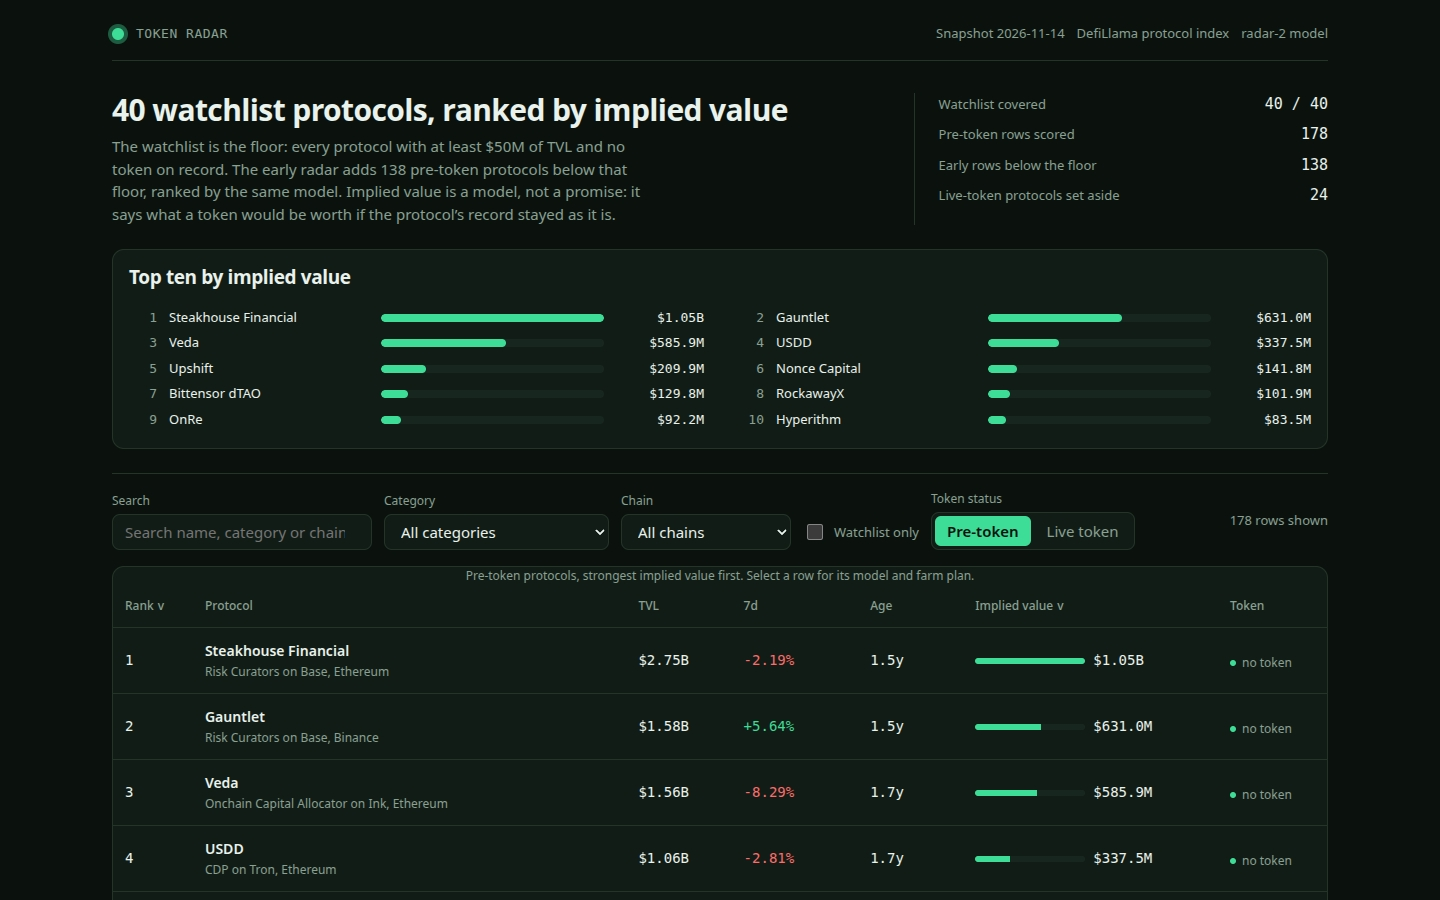
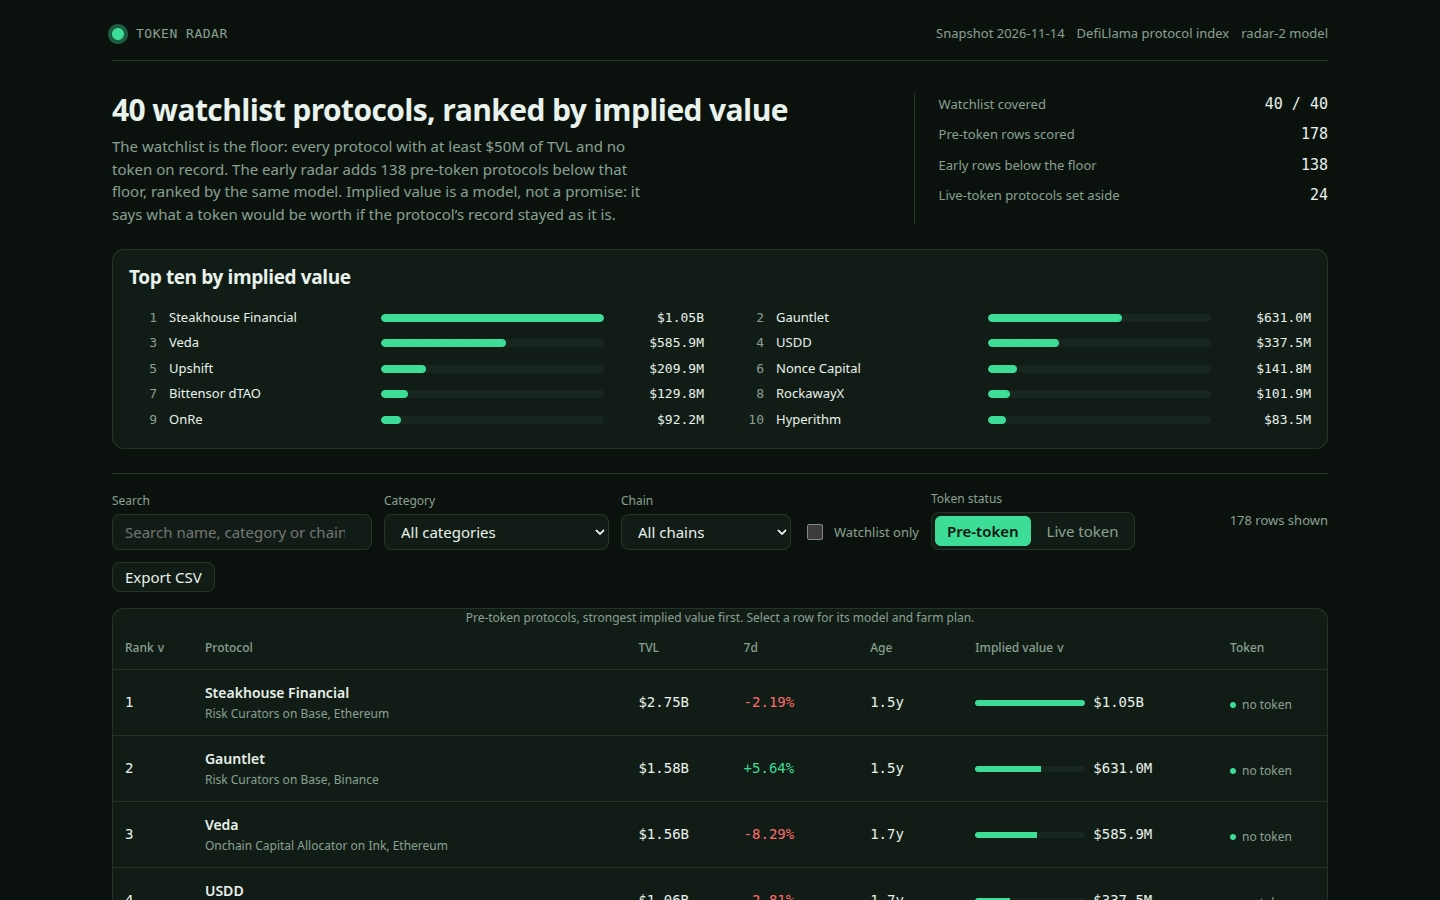
token-radar-01: worked example, board stats and CSV export
main.ts prints the board stats and rank 1's score breakdown (new
scoreBreakdown/boardStats in lib/model.ts); the dashboard gains an
Export CSV button for the filtered view. Board values unchanged.

diff --git a/dashboard/app.js b/dashboard/app.js
@@ -94,6 +94,45 @@
       return hay.indexOf(q) >= 0;
     });
   }
+  // One CSV cell: quoted when it holds a comma, a quote or a line break, with quotes doubled.
+  function csvCell(value) {
+    var s = value === null || value === undefined ? '' : String(value);
+    return /[",\n]/.test(s) ? '"' + s.replace(/"/g, '""') + '"' : s;
+  }
+
+  // The rows on screen, as a CSV download: the filtered pre-token view, or the live-token
+  // view with market caps instead of implied values. A plain Blob, no network, no library.
+  function downloadCsv() {
+    var lines;
+    if (state.tab === 'live') {
+      lines = [['protocol', 'category', 'chains', 'tvl_usd', 'change_7d', 'mcap_usd', 'token']];
+      DATA.live.forEach(function (r) {
+        lines.push([
+          csvCell(r.name), csvCell(r.category), csvCell((r.chains || []).join('; ')),
+          r.tvl_usd, r.change_7d === null ? '' : r.change_7d,
+          r.mcap_usd === null ? '' : r.mcap_usd, 'already trades',
+        ]);
+      });
+    } else {
+      lines = [['rank', 'protocol', 'category', 'chains', 'tvl_usd', 'change_7d', 'age_days', 'implied_value_usd', 'watchlist']];
+      sortedRows(rows()).forEach(function (r) {
+        lines.push([
+          r.rank, csvCell(r.name), csvCell(r.category), csvCell((r.chains || []).join('; ')),
+          r.tvl_usd, r.change_7d === null ? '' : r.change_7d,
+          r.age_days === null ? '' : r.age_days, r.implied_value_usd,
+          r.watchlist ? 'yes' : 'no',
+        ]);
+      });
+    }
+    var blob = new Blob([lines.map(function (l) { return l.join(','); }).join('\n') + '\n'], { type: 'text/csv' });
+    var a = document.createElement('a');
+    a.href = URL.createObjectURL(blob);
+    a.download = state.tab === 'live' ? 'token-radar-live.csv' : 'token-radar-board.csv';
+    document.body.appendChild(a);
+    a.click();
+    setTimeout(function () { URL.revokeObjectURL(a.href); a.remove(); }, 0);
+  }
+
   function sortedRows(list) {
     var key = state.sort;
     return list.slice().sort(function (a, b) {
@@ -176,7 +215,8 @@
       el('div', { class: 'field' }, el('label', { for: 'chain', text: 'Chain' }), chain),
       el('label', { class: 'check', for: 'watch' }, watch, el('span', { text: 'Watchlist only' })),
       el('div', { class: 'field' }, el('span', { class: 'sub', text: 'Token status' }), el('div', { class: 'tabs' }, pre, live)),
-      el('span', { class: 'count', text: state.tab === 'pre-token' ? rows().length + ' rows shown' : DATA.live.length + ' live-token protocols' })
+      el('span', { class: 'count', text: state.tab === 'pre-token' ? rows().length + ' rows shown' : DATA.live.length + ' live-token protocols' }),
+      el('button', { class: 'export', type: 'button', text: 'Export CSV', onclick: downloadCsv })
     );
   }
 

diff --git a/lib/model.ts b/lib/model.ts
@@ -286,6 +286,51 @@ export function impliedValue(
   return { implied, growthPct, growthMult, maturityMult, breadthMult, catMult, age };
 }
 
+/** A row's score as readable lines, for the dossier's worked example and for a reader who
+ *  wants to check a row by hand. Each line names one factor and the number it contributes. */
+export function scoreBreakdown(row: BoardRow): string[] {
+  const m = row.model;
+  const growth =
+    row.change_7d === null
+      ? 'no 7-day change on record, counted as 0%'
+      : `${row.change_7d.toFixed(2)}% over 7 days`;
+  const age =
+    m.age_days === null ? 'unknown, counted as 365 days' : `${m.age_days} day${m.age_days === 1 ? '' : 's'}`;
+  const chains = `${row.chains.length} chain${row.chains.length === 1 ? '' : 's'}`;
+  return [
+    `TVL $${row.tvl_usd.toLocaleString('en-US')} times the category multiple ${m.category_multiple} for ${row.category ?? 'an uncategorised protocol'}.`,
+    `Growth ${growth}, clamped to ${m.growth_pct.toFixed(2)}%, gives a growth multiplier of ${m.growth_multiplier}.`,
+    `Age ${age} gives a maturity multiplier of ${m.maturity_multiplier}.`,
+    `${chains} give a breadth multiplier of ${m.breadth_multiplier}.`,
+    `Implied value $${row.implied_value_usd.toLocaleString('en-US')}: the product, rounded to the dollar, at least $1.`,
+  ];
+}
+
+/** Summary counts of a board, for the console log and the dossier's headline. */
+export function boardStats(board: BoardRow[], snapshot: Snapshot): {
+  rows: number;
+  watchlistCovered: number;
+  watchlistSize: number;
+  earlyRows: number;
+  topValue: number;
+  bottomValue: number;
+  topSlug: string;
+  distinctValues: number;
+} {
+  const watchlist = new Set(snapshot.watchlist);
+  const values = board.map((r) => r.implied_value_usd);
+  return {
+    rows: board.length,
+    watchlistCovered: board.filter((r) => watchlist.has(r.slug)).length,
+    watchlistSize: snapshot.watchlist.length,
+    earlyRows: board.filter((r) => !watchlist.has(r.slug)).length,
+    topValue: values.length > 0 ? Math.max(...values) : 0,
+    bottomValue: values.length > 0 ? Math.min(...values) : 0,
+    topSlug: board.length > 0 ? board[0]!.slug : '',
+    distinctValues: new Set(values).size,
+  };
+}
+
 /** Whether a protocol records no token at all. */
 export function isPreToken(p: SnapshotProtocol): boolean {
   return p.mcap_usd === null && p.gecko_id === null && p.symbol === null;

diff --git a/main.ts b/main.ts
@@ -12,7 +12,7 @@
 import { copyFileSync, existsSync, mkdirSync, readFileSync, readdirSync, statSync, writeFileSync } from 'node:fs';
 import { join } from 'node:path';
 import { fileURLToPath } from 'node:url';
-import { boardIssue, buildRadar, dataScript, parseSnapshot } from './lib/model.ts';
+import { boardIssue, boardStats, buildRadar, dataScript, parseSnapshot, scoreBreakdown } from './lib/model.ts';
 import { buildDossier } from './vendor/makefun-board.ts';
 
 const here = fileURLToPath(new URL('.', import.meta.url));
@@ -47,6 +47,8 @@ if (issue !== null) {
   process.stderr.write(`token radar: the board fails the gate: ${issue}\n`);
   process.exit(1);
 }
+const stats = boardStats(board, snapshot);
+const example = board.length > 0 ? scoreBreakdown(board[0]!).join('\n  ') : 'no rows scored';
 
 mkdirSync(out, { recursive: true });
 writeFileSync(join(out, 'board.json'), `${JSON.stringify({ rows: board })}\n`);
@@ -92,6 +94,8 @@ for (const name of shots) {
 writeFileSync(join(out, 'dossier.json'), buildDossier(out, { text_max_bytes: TEXT_MAX_BYTES, screenshots: SCREENSHOT_CAPS, dashboard: DASHBOARD_CAPS }));
 
 process.stdout.write(
-  `token radar: ${snapshot.protocols.length} protocols, ${snapshot.watchlist.length} on the watchlist, ${board.length} rows scored (${radar.early_size} early, ${radar.live_size} live set aside)\n` +
+  `token radar: ${snapshot.protocols.length} protocols, ${stats.watchlistSize} on the watchlist, ${stats.rows} rows scored (${stats.earlyRows} early, ${radar.live_size} live set aside)\n` +
+    `token radar: watchlist covered ${stats.watchlistCovered}/${stats.watchlistSize}; implied value $${stats.topValue.toLocaleString('en-US')} (rank 1, ${stats.topSlug}) down to $${stats.bottomValue.toLocaleString('en-US')}; ${stats.distinctValues} distinct values\n` +
+    `token radar: worked example, rank 1:\n  ${example}\n` +
     `token radar: wrote ${join(out, 'board.json')}, ${join(out, 'data.js')}, ${join(out, 'dashboard')} (${dash.length} files), ${join(out, 'screenshots')} (${shots.length} images) and ${join(out, 'dossier.json')}\n`,
 );

diff --git a/dashboard/app.css b/dashboard/app.css
@@ -89,6 +89,8 @@ a { color: var(--accent); }
 .tabs button { min-height: 30px; padding: 0 var(--step-3); border: 0; border-radius: 6px; background: transparent; color: var(--muted); }
 .tabs button[aria-pressed="true"] { background: var(--accent); color: var(--canvas); font-weight: 600; }
 .count { margin-left: auto; color: var(--muted); font-size: 13px; align-self: center; }
+.export { min-height: 30px; padding: 0 var(--step-3); border: 1px solid var(--border); border-radius: var(--radius-control); background: var(--surface); color: var(--ink); align-self: center; }
+.export:hover { border-color: var(--accent); color: var(--accent); }
 
 .panel { background: var(--surface); border: 1px solid var(--border); border-radius: var(--radius-panel); overflow: hidden; }
 .table-wrap { overflow-x: auto; }
